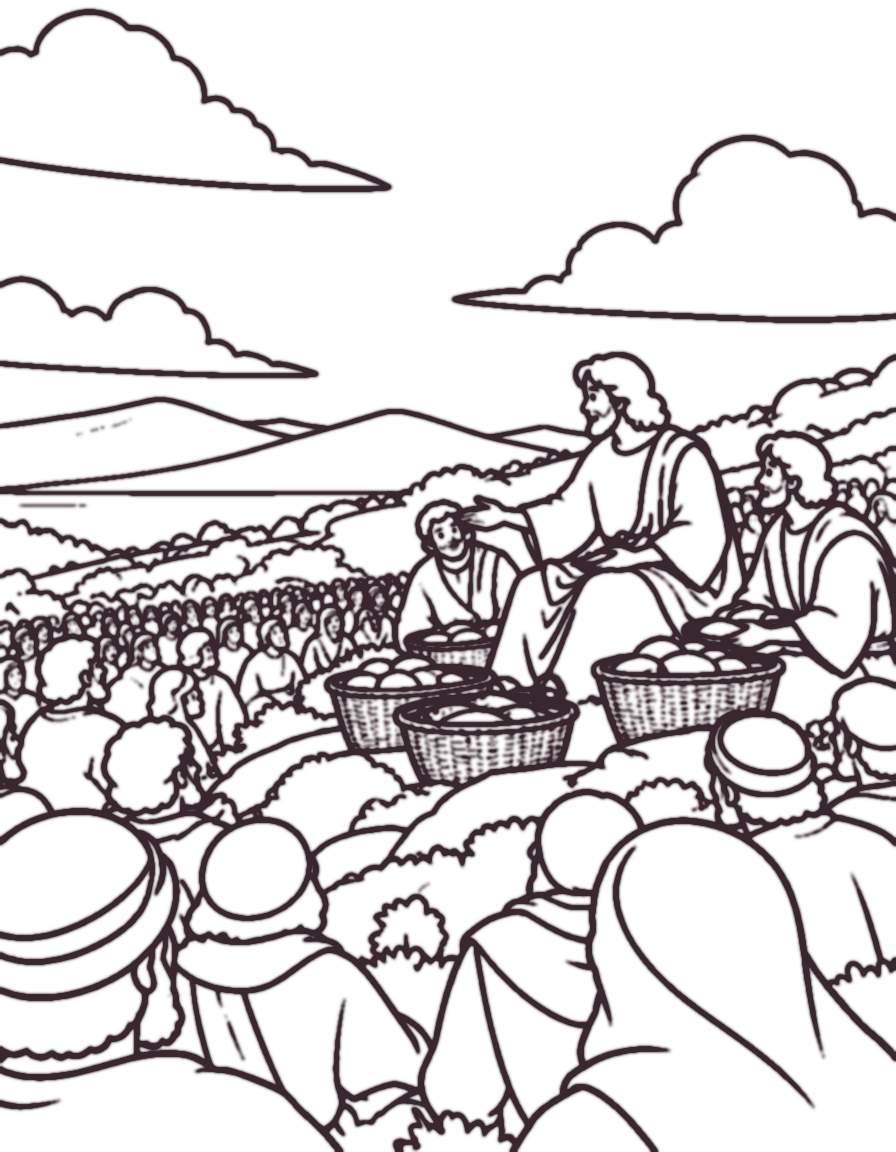
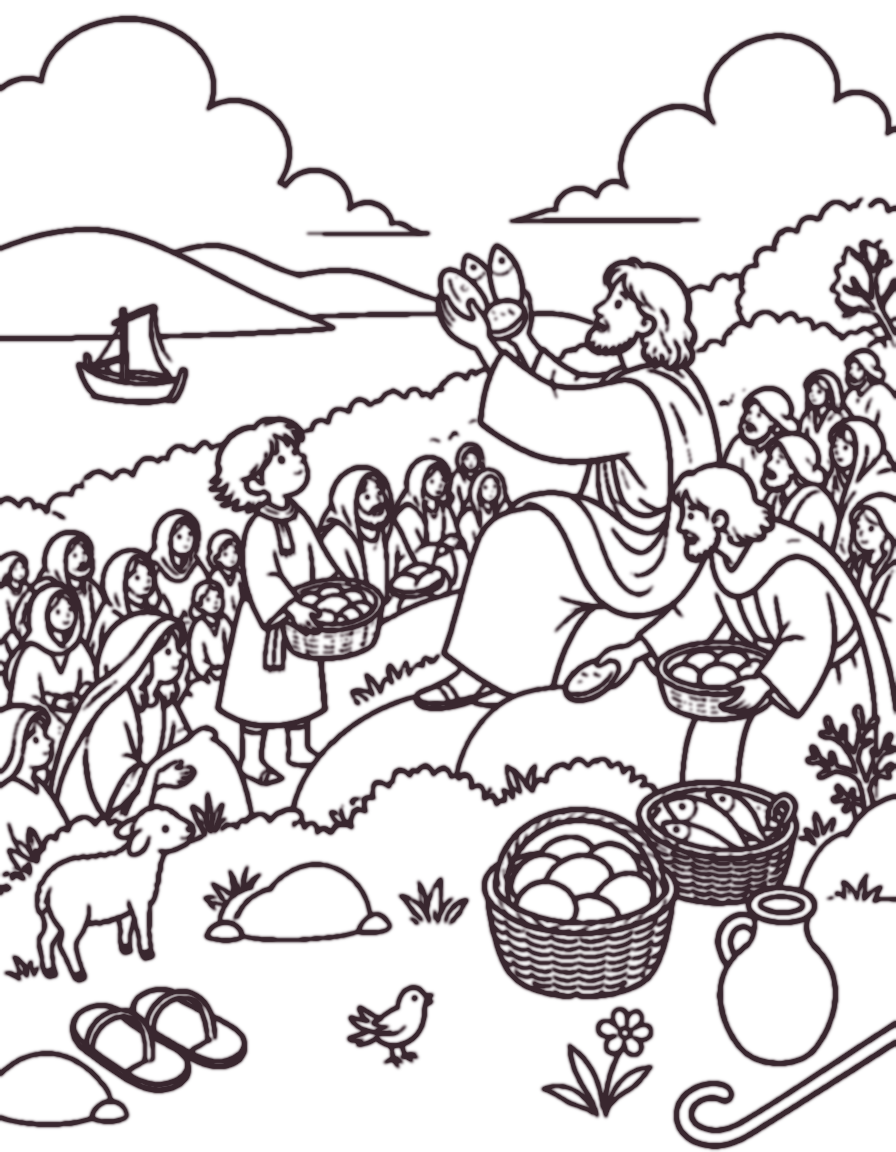
Feeding of the 5000: new storybook painting with hidden objects, shapes, thumbnail and coloring page

diff --git a/src/lib/story-items.ts b/src/lib/story-items.ts
@@ -9,7 +9,7 @@ export type StoryItem = [word: string, x: number, y: number, r: number];
 export const STORY_ITEMS: Record<string, StoryItem[]> = {
   "blessing-children": [["jesus.face", 60, 20, 7], ["boy.face", 41, 42, 6], ["girl.face", 20, 47, 5], ["woman.head", 82, 50, 6], ["lamb", 12, 71, 7], ["ball", 33, 91, 5], ["basket", 8, 89, 7], ["butterfly", 8, 39, 4], ["bird", 88, 14, 4], ["dog", 88, 85, 6], ["jar", 74, 88, 5], ["duckling", 52, 92, 4], ["flower", 60, 93, 3], ["sea", 47, 27, 6]],
   "walking-water": [["jesus.face", 70, 20, 6], ["peter.face", 37, 37, 5], ["hand", 50, 42, 4], ["disciples", 17, 30, 9], ["sail", 13, 11, 8], ["seagull", 48, 9, 5], ["net", 90, 9, 6], ["lantern", 8, 61, 5], ["anchor", 15, 80, 6], ["fish", 90, 17, 4], ["jellyfish", 90, 73, 5], ["rope", 90, 83, 6], ["crab", 76, 90, 5], ["starfish", 25, 89, 4], ["sun", 95, 36, 4], ["feet", 71, 69, 4]],
-  "feeding-5000": [["jesus.face", 68, 37, 7], ["basket", 52, 62, 8], ["bread", 78, 57, 6], ["crowd", 15, 55, 9], ["disciple.face", 88, 48, 7], ["cloud", 20, 10, 9], ["mountain", 20, 38, 7], ["sea", 8, 46, 5], ["woman.head", 80, 85, 9], ["man.head", 25, 82, 8]],
+  "feeding-5000": [["jesus.face", 71, 27, 6], ["boy.face", 30, 40, 5], ["basket", 65, 78, 8], ["fish", 80, 71, 7], ["lamb", 13, 76, 8], ["boat", 15, 30, 6], ["jar", 88, 83, 6], ["sandal", 18, 89, 9], ["bird", 44, 87, 5], ["bread", 55, 26, 6], ["disciple.face", 80, 45, 5], ["woman.head", 18, 56, 6], ["staff", 84, 94, 7], ["flower", 70, 88, 4], ["cloud", 87, 10, 9], ["mountain", 25, 23, 6], ["sea", 36, 31, 5], ["crowd", 91, 36, 7]],
   "calming-storm": [["jesus.face", 54, 31, 6], ["hand", 71, 30, 4], ["disciple.face", 36, 40, 5], ["man.head", 20, 46, 7], ["sail", 21, 29, 9], ["seagull", 71, 11, 5], ["lantern", 9, 11, 5], ["fish", 79, 71, 4], ["bucket", 9, 72, 5], ["basket", 63, 89, 6], ["net", 90, 51, 6], ["rope", 90, 35, 5], ["oar", 31, 89, 6], ["anchor", 85, 88, 5], ["wave", 45, 83, 6], ["boat", 45, 60, 8]],
   "good-samaritan": [["samaritan.face", 44, 31, 6], ["injured.face", 34, 52, 6], ["donkey", 80, 42, 9], ["bird", 9, 55, 4], ["sun", 74, 17, 4], ["tree", 10, 12, 9], ["jar", 6, 34, 6], ["bread", 33, 90, 6], ["pot", 88, 92, 6], ["lizard", 55, 86, 4], ["blanket", 15, 84, 8], ["bag", 13, 68, 6], ["flower", 65, 91, 4], ["snail", 57, 96, 3], ["sandal", 83, 77, 5]],
   "noahs-ark": [["noah.face", 29, 37, 7], ["ark", 70, 25, 11], ["dove", 13, 16, 7], ["giraffe", 77, 42, 8], ["lion", 58, 56, 8], ["sheep", 52, 73, 9], ["elephant", 57, 37, 7], ["basket", 9, 81, 7], ["frog", 89, 88, 5], ["butterfly", 93, 61, 4], ["hammer", 89, 74, 5], ["bucket", 20, 92, 6], ["snail", 43, 90, 4], ["ladybug", 4, 71, 3], ["rope", 76, 94, 7], ["rainbow", 30, 12, 8], ["lioness", 70, 57, 7], ["staff", 12, 45, 5]],

diff --git a/src/lib/dragdrop-pieces.ts b/src/lib/dragdrop-pieces.ts
@@ -5,7 +5,7 @@
 export const DD_PIECES: Record<string, [number, number][][]> = {
   "blessing-children": [[[60,20],[41,42],[82,50]],[[60,20],[41,42],[20,47],[82,50],[12,71]],[[60,20],[41,42],[20,47],[82,50],[12,71],[33,91],[9,89]],[[60,20],[41,42],[20,47],[82,50],[12,71],[33,91],[8,89],[88,14],[88,85]],[[60,20],[41,42],[20,47],[82,50],[12,71],[33,91],[8,89],[8,39],[88,14],[88,85],[52,92]]],
   "walking-water": [[[70,20],[37,37],[13,11]],[[70,20],[37,37],[17,30],[13,11],[48,9]],[[70,20],[37,37],[17,30],[13,11],[48,9],[90,9],[9,61]],[[70,20],[37,37],[17,30],[13,11],[48,9],[90,9],[8,61],[15,80],[90,73]],[[70,20],[37,37],[17,30],[13,11],[48,9],[90,9],[8,61],[15,80],[90,73],[76,90],[93,36]]],
-  "feeding-5000": [[[68,37],[52,62],[78,57]],[[68,37],[52,62],[78,57],[15,55],[20,10]],[[68,37],[52,62],[78,57],[15,55],[20,10],[20,38],[80,85]],[[68,37],[52,62],[78,57],[15,55],[20,10],[20,38],[80,85],[25,82],[62.0,50.2]],[[68,37],[52,62],[78,57],[15,55],[20,10],[20,38],[80,85],[25,82],[61.0,51.4],[85.0,45.4],[13.0,71.4]]],
+  "feeding-5000": [[[71,27],[30,40],[65,78]],[[71,27],[30,40],[65,78],[13,76],[88,83]],[[71,27],[30,40],[65,78],[13,76],[15,30],[88,83],[44,87]],[[71,27],[30,40],[65,78],[13,76],[15,30],[88,83],[44,87],[80,45],[18,56]],[[71,27],[30,40],[65,78],[80,71],[13,76],[15,30],[88,83],[18,89],[44,87],[55,26],[80,45]]],
   "calming-storm": [[[54,31],[20,46],[71,11]],[[54,31],[20,46],[21,29],[71,11],[10,11]],[[54,31],[36,40],[21,29],[71,11],[9,11],[79,71],[9,72]],[[54,31],[36,40],[20,46],[21,29],[71,11],[9,11],[79,71],[9,72],[63,89]],[[54,31],[71,30],[36,40],[20,46],[21,29],[71,11],[9,11],[79,71],[9,72],[63,89],[90,51]]],
   "good-samaritan": [[[44,31],[34,52],[80,42]],[[44,31],[34,52],[80,42],[10,55],[74,17]],[[44,31],[34,52],[80,42],[9,55],[74,17],[10,12],[9,34]],[[44,31],[34,52],[80,42],[9,55],[74,17],[10,12],[8,34],[33,90],[88,92]],[[44,31],[34,52],[80,42],[9,55],[74,17],[10,12],[7,34],[33,90],[88,92],[55,86],[15,84]]],
   "noahs-ark": [[[29,37],[70,25],[13,16]],[[29,37],[70,25],[13,16],[77,42],[58,56]],[[29,37],[70,25],[13,16],[77,42],[58,56],[52,73],[57,37]],[[29,37],[70,25],[13,16],[77,42],[58,56],[52,73],[57,37],[9,81],[89,88]],[[29,37],[70,25],[13,16],[77,42],[58,56],[52,73],[57,37],[9,81],[89,88],[93,61],[89,74]]],

diff --git a/AGENTS.md b/AGENTS.md
@@ -129,7 +129,7 @@ bgp-admin at `templates/agent-docs/`, so ask before adding it.
   `--paint-tint: PLAYER_TINT[color]` (SVG duotone filters in Token.tsx).
 - Background music is broken on the Cloudflare site: `src/assets/music/*.asset.json`
   point to Lovable's `/__l5e/` file host, which only exists on Lovable.
-- All 49 story paintings are in the new gouache storybook style (red-sea is
+- All 50 story paintings are in the new gouache storybook style (feeding-5000 since Nov 2026; red-sea is
   the maintainer's own Moses painting, not generated). The maintainer wants a
   flat, grainy, hand-made look like the reference — not Disney/Pixar, not
   glossy AI art; small dot eyes, few gradients. To save money,
